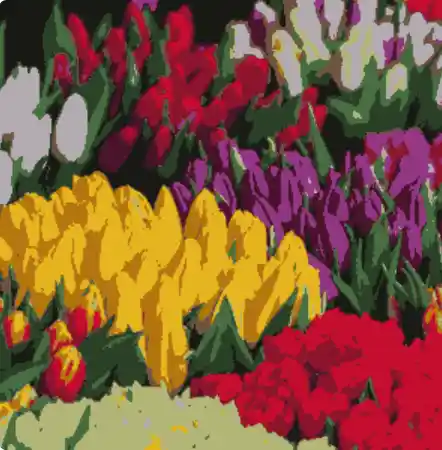
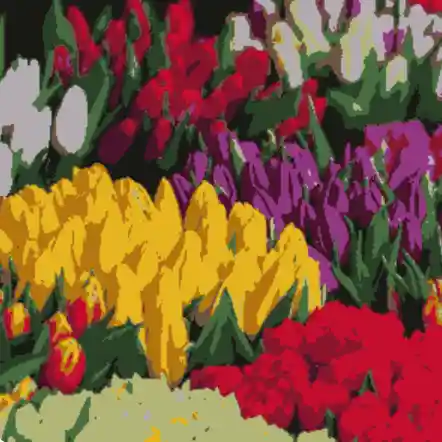
Add projects and images

diff --git a/projects/celle2.md b/projects/celle2.md
@@ -6,11 +6,13 @@ live: https://bohuanglab.github.io/CELL-E_2/
 code: https://github.com/BoHuangLab/CELL-E_2
 tags: [web, ai, ml]
 date: '2023-05-01'
+images:
+  - path: /images/projects/celle2/image_generation.webp
 links:
   - title: Website
     url: https://bohuanglab.github.io/CELL-E_2/
   - title: NeurIPS 2023
     url: https://openreview.net/forum?id=YSMLVffl5u
-  - title: Lab
-    url: https://huanglab.ucsf.edu/
+  # - title: Lab
+  #   url: https://huanglab.ucsf.edu/
 ---

diff --git a/projects/foton.md b/projects/foton.md
@@ -6,6 +6,13 @@ live: https://fotons.herokuapp.com
 code: https://github.com/agarun/foton
 tags: [react, javascript, rails, ruby]
 date: '2017-12-30'
+images:
+  - path: /images/projects/foton/1.webp
+  - path: /images/projects/foton/2.webp
+  - path: /images/projects/foton/3.webp
+  - path: /images/projects/foton/4.webp
+  - path: /images/projects/foton/5.webp
+  - path: /images/projects/foton/6.webp
 links:
   - title: Code
     url: https://github.com/agarun/foton

diff --git a/projects/gnm.md b/projects/gnm.md
@@ -6,6 +6,8 @@ description: A study on the behavior of HCV direct-acting antiviral agents that 
 live: https://agarun.com/files/agarunov-CSCI393.pdf
 tags: [python, r]
 date: '2017-05-31'
+images:
+  - path: /images/projects/gnm/2.webp
 links:
   - title: Paper
     url: https://agarun.com/files/agarunov-CSCI393.pdf
